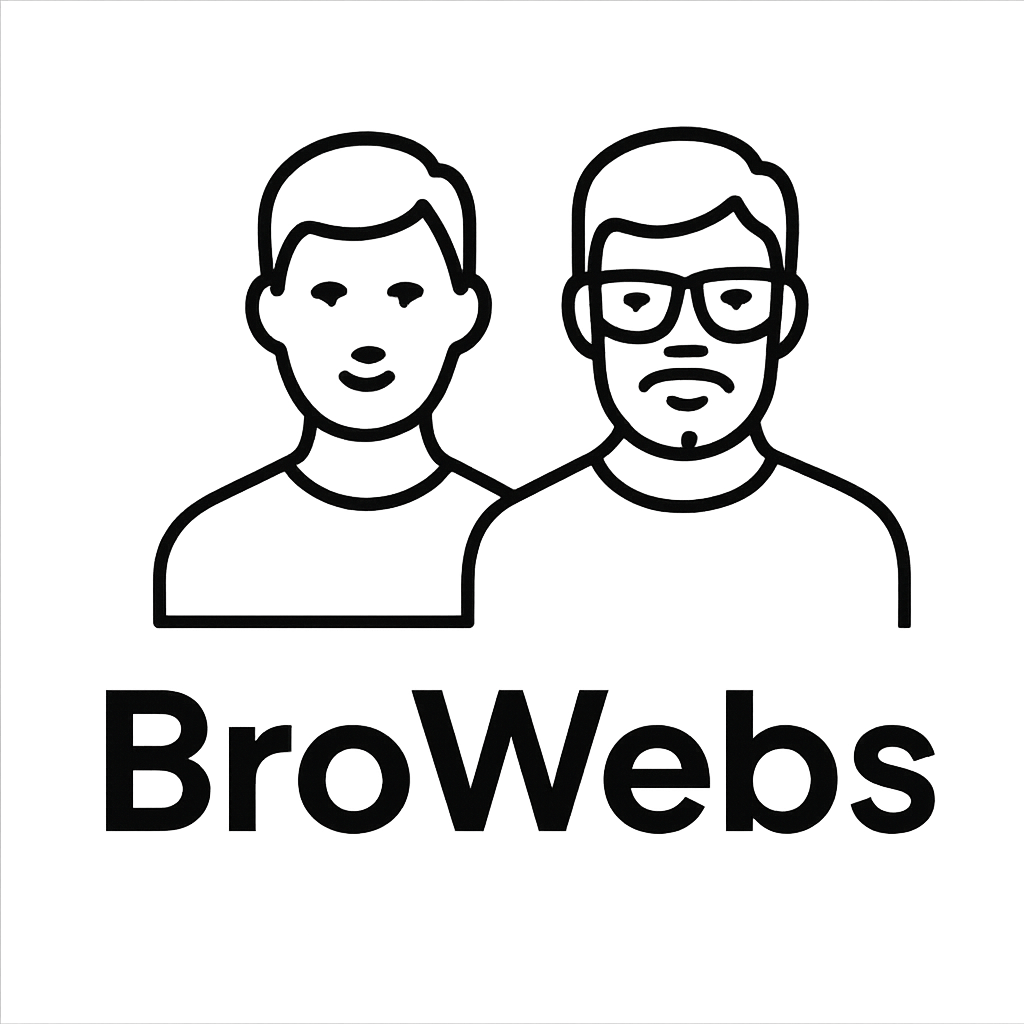
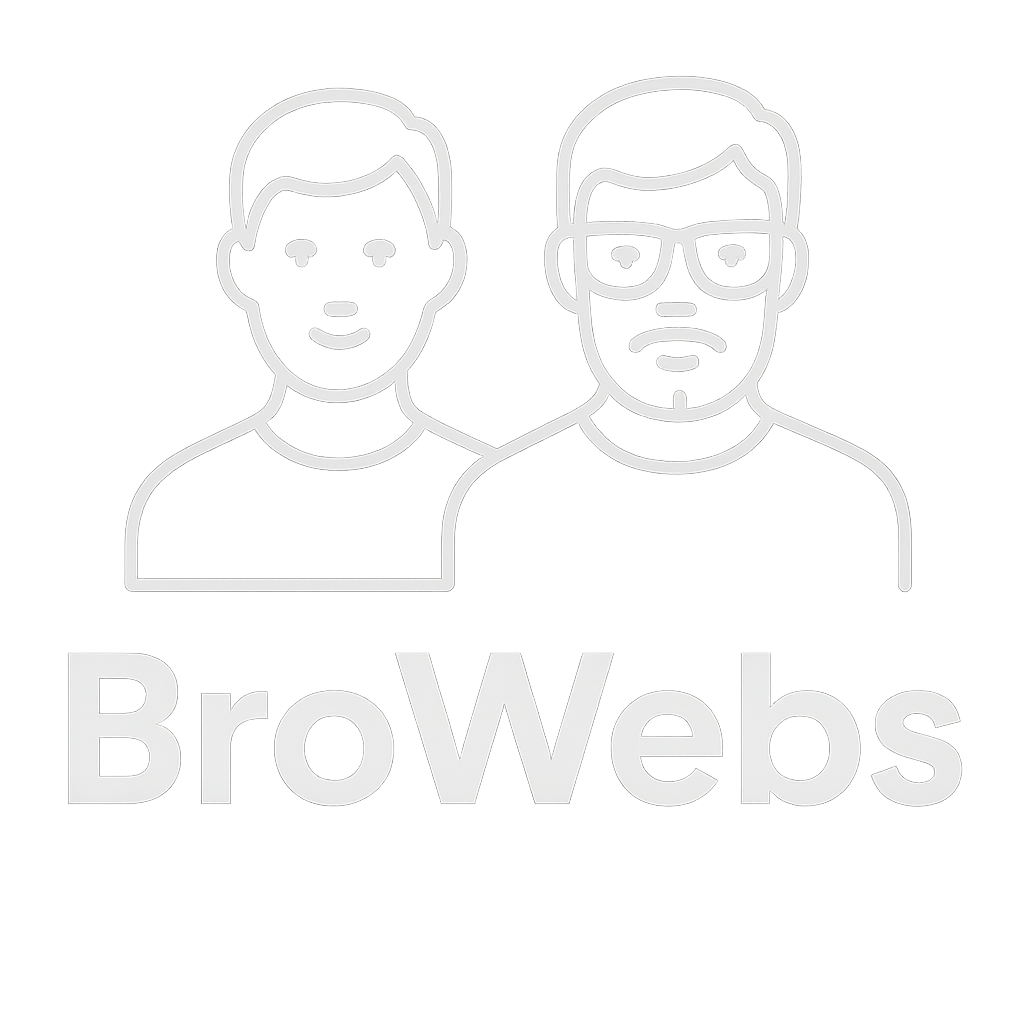
update ophtalmo repo

Changed region(s): [[0.125, 0.0625, 0.5312, 0.625], [0.5, 0.0625, 0.9062, 0.625], [0.0625, 0.6562, 0.9375, 0.8125]]

diff --git a/index.html b/index.html
@@ -89,15 +89,25 @@
         @keyframes typedjsBlink {
             50% { opacity: 0.0; }
         }
+
+        /* --- LOGO SCALING MODIFICATION --- */
+        #logo-img {
+            transform: scale(2.2); /* You can adjust this value */
+            transform-origin: left center;
+            transition: transform 0.3s ease;
+        }
     </style>
 </head>
 <body class="antialiased">
 
     <header id="header" class="fixed top-0 left-0 right-0 z-50 transition-all duration-300">
         <nav class="container mx-auto px-6 py-4 flex justify-between items-center">
-            <a href="#" class="flex items-center text-2xl font-bold text-white">
-                <img src="src/5.jpg" alt="BroWebs Logo" class="h-10 mr-3 rounded-md">
-                <span>BroWebs</span>
+            <a href="#" class="flex items-center">
+                <img src="src/5.jpg" alt="BroWebs Logo" id="logo-img" class="h-10 mr-16 rounded-md">
+                <div>
+                    <span class="block text-3xl font-bold text-slate-300" style="line-height: 1;">Browebs</span>
+                    <span class="block text-sm font-normal text-slate-400">Software development</span>
+                </div>
             </a>
             <div class="hidden md:flex items-center space-x-8">
                 <a href="#about" class="nav-link text-slate-300 hover:text-white transition">About Us</a>
